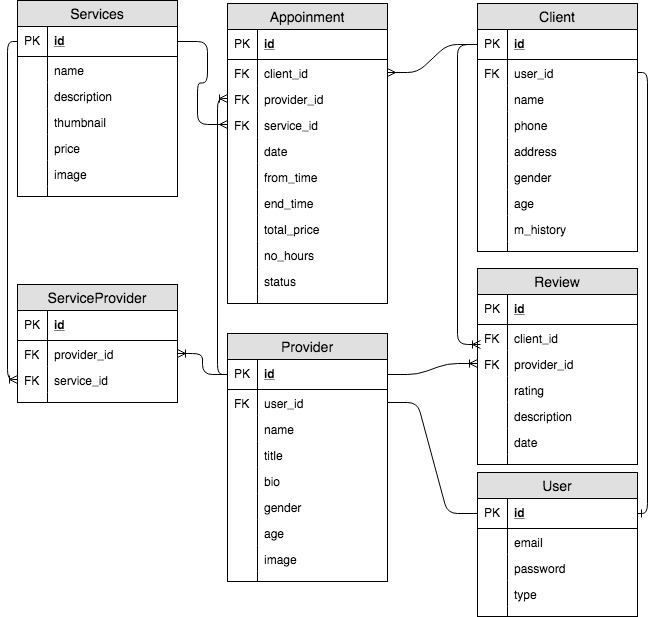
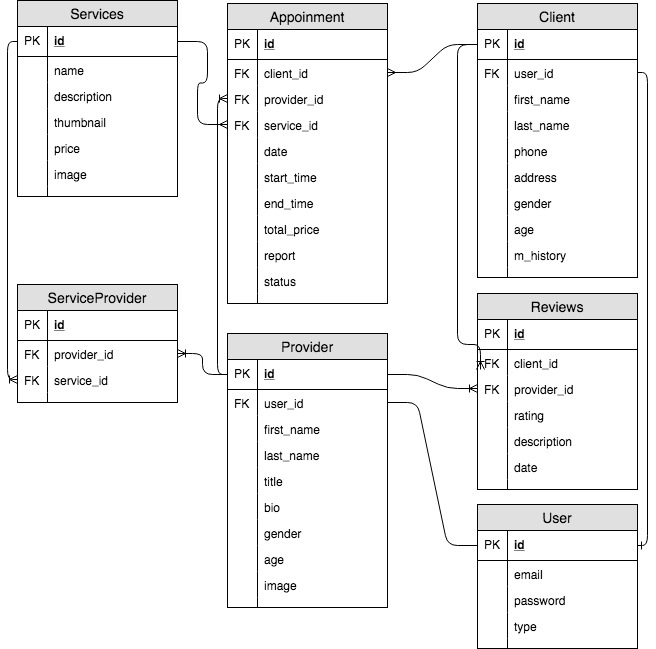
seed file for users and services table

diff --git a/db/seeds/users_seed.js b/db/seeds/users_seed.js
@@ -1,0 +1,68 @@
+var bcrypt = require('bcrypt');
+var salt = bcrypt.genSaltSync(10);
+
+let hash = [];
+function encrypted_password(){
+  for (var i = 1; i < 26; ++i) {
+    let pass = "pass" + i;
+    hash[i-1] = bcrypt.hashSync("pass", salt);
+  }
+  return hash;
+}
+
+// Add data to tables
+exports.seed = function(knex, Promise) {
+  const password = encrypted_password();
+
+  const deleteServices = Promise.all([
+    knex('services').del()]);
+  const deleteUsers = deleteServices
+    .then(() => {
+      return knex('users').del();
+    });
+
+  const createUsers = deleteUsers
+    .then(() => {
+      return knex('users')
+        .returning('*')
+        .insert([{id: 1, email: 'dahlia@dahlia.com', password: password[0], type: true},
+          {id: 2, email: 'mehdi@mehdi.com', password: password[1], type: true},
+          {id: 3, email: 'chris@chris.com', password: password[2], type: true},
+          {id: 4, email: 'sam@sam.com', password: password[3], type: true},
+          {id: 5, email: 'mark@mark.com', password: password[4], type: true},
+          {id: 6, email: 'Joel@Joel.com', password: password[5], type: true},
+          {id: 7, email: 'Jeremy@Jeremy.com', password: password[6], type: true},
+          {id: 8, email: 'Rosey@Rosey.com', password: password[7], type: true},
+          {id: 9, email: 'Don@Don.com', password: password[8], type: true},
+          {id: 10, email: 'rohit@rohit.com', password: password[9], type: true},
+          {id: 11, email: 'alice@alice.com', password: password[10], type: false},
+          {id: 12, email: 'James@James.com', password: password[11], type: false},
+          {id: 13, email: 'Robert@Robert.com', password: password[12], type: false},
+          {id: 14, email: 'Michael@Michael.com', password: password[13], type: false},
+          {id: 15, email: 'William@William.com', password: password[14], type: false},
+          {id: 16, email: 'David@David.com', password: password[15], type: false},
+          {id: 17, email: 'Richard@Richard.com', password: password[16], type: false},
+          {id: 18, email: 'Joseph@Joseph.com', password: password[17], type: false},
+          {id: 19, email: 'Mary@Mary.com', password: password[18], type: false},
+          {id: 20, email: 'Patricia@Patricia.com', password: password[19], type: false},
+          {id: 21, email: 'Jennifer@Jennifer.com', password: password[20], type: false},
+          {id: 22, email: 'Linda@Linda.com', password: password[21], type: false},
+          {id: 23, email: 'Susan@Susan.com', password: password[22], type: false},
+          {id: 24, email: 'Margaret@Margaret.com', password: password[23], type: false},
+          {id: 25, email: 'Charles@Charles.com', password: password[24], type: false}
+          ])
+        .then(() => {
+          return knex('services')
+            .returning('*')
+            .insert([{id: 1, name: 'Physiotherapy', descripton: 'Physiotherapy is a science-based profession and takes a ‘whole person’ approach to health and wellbeing, which includes the patient’s general lifestyle.', thumbnail: 'Physiotherapy helps restore movement and function when someone is affected by injury, illness or disability', price: 50, image: '../docs/Physiotherapist.png'},
+              {id: 2, name: 'Acupuncture', descripton: 'Acupuncture is a complementary medical practice that entails stimulating certain points on the body, most often with a needle penetrating the skin, to alleviate pain or to help treat various health conditions.', thumbnail: 'Acupuncture is an ancient, safe and effective alternative to medication.', price: 40, image: '../docs/Acupuncture.jpg'},
+              {id: 3, name: 'On-call Nurse', descripton: 'NURSE-ON-CALL puts you directly in touch with a registered nurse for caring, professional health advice around the clock', thumbnail: 'A phone service that provides immediate, expert health advice from a registered nurse, 24 hours a day, 7 days a week.', price: 25, image: '../docs/Nurse.png'},
+              {id: 4, name: 'Chiropractor', descripton: 'A chiropractor is a health care professional focused on the diagnosis and treatment of neuromuscular disorders, with an emphasis on treatment through manual adjustment and/or manipulation of the spine.', thumbnail: 'Use hands-on spinal manipulation.', price: 35, image: '../docs/Chiropractor.png'},
+              {id: 5, name: 'Home Health Aide', descripton: 'It is about caring, not just health care. That is why we are here to help get you back to doing the things you love. Whether its a little help around the house with meal preparation or medication reminders, let us do the caring.', thumbnail: 'Expert Home Health Care Services that specialize in Happiness. Get the care you deserve!', price: 25, image: '../docs/Health_Aide.jpg'},
+              {id: 6, name: 'Massage Therapy', descripton: 'Massage therapy is the manipulation of soft tissues of the body including, muscles, connective tissues, tendons, ligaments and joints.', thumbnail: 'The assessment and diagnosis of soft tissue and joints of the body', price: 45, image: '../docs/Massage_Therapy.jpg'},
+            ])
+        });
+    });
+  return createUsers;
+};
+

diff --git a/src/App.js b/src/App.js
@@ -15,7 +15,7 @@ class App extends Component {
           <h1 className="App-title">Welcome to React</h1>
         </header>
         <p className="App-intro">
-          To get started, edit <code>src/App.js</code> and save to reload. Hiiiiii
+          To get started, edit <code>src/App.js</code> and save to reload.
         </p>
       </div>
     );

diff --git a/db/migrations/20180601004724_setup.js b/db/migrations/20180601004724_setup.js
@@ -4,7 +4,7 @@ exports.up = function(knex, Promise) {
     knex.schema.createTable('services', function(table){
       table.increments('id').primary();
       table.string('name');
-      table.string('descripton');
+      table.text('descripton');
       table.string('thumbnail');
       table.integer('price');
       table.string('image');

diff --git a/db/migrations/20180601022504_setup.js b/db/migrations/20180601022504_setup.js
@@ -2,7 +2,7 @@
 exports.up = function(knex, Promise) {
   return Promise.all([
     knex.schema.createTable('users', function(table){
-      table.increments('id').primary();
+      table.integer('id').primary();
       table.string('email');
       table.string('password');
       table.boolean('type');

diff --git a/db/migrations/20180601012708_setup.js b/db/migrations/20180601012708_setup.js
@@ -18,6 +18,6 @@ exports.up = function(knex, Promise) {
 
 exports.down = function(knex, Promise) {
   return Promise.all([
-    knex.schema.dropTable('appointment')
+    knex.schema.dropTable('appointments')
   ])
 };
